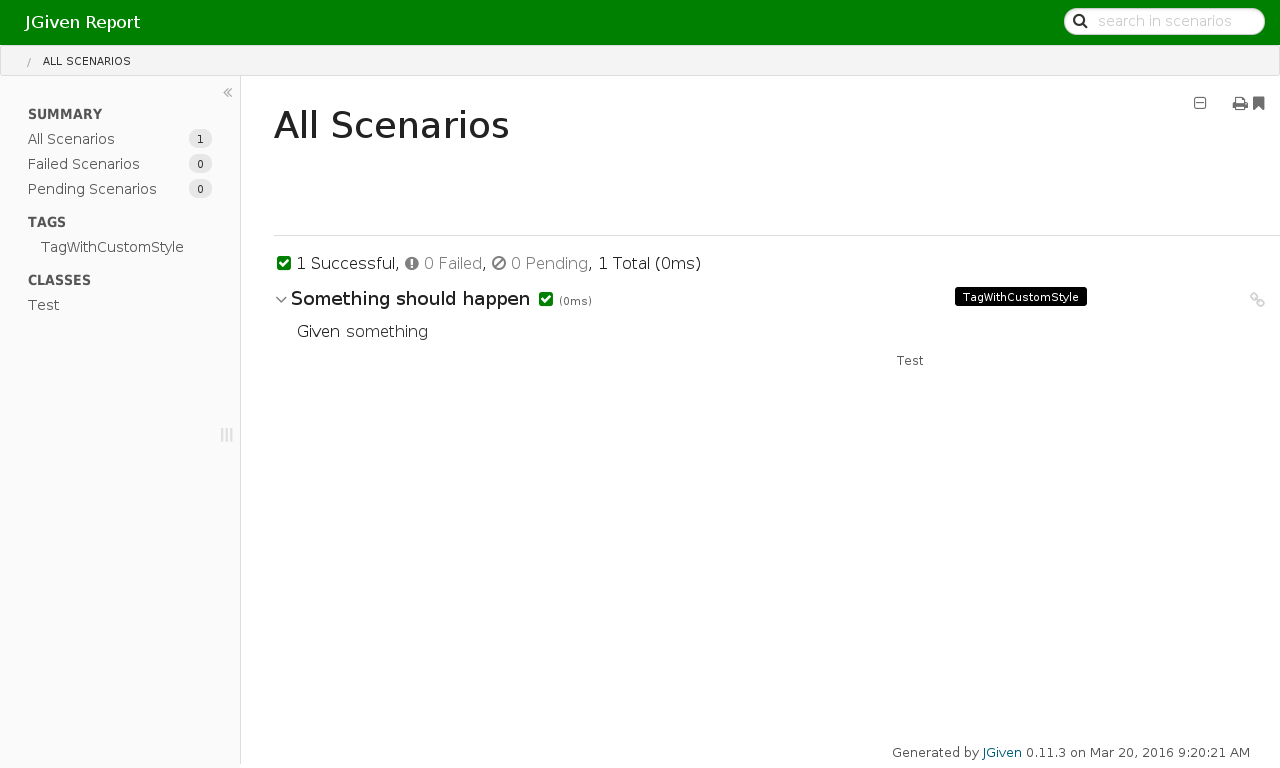
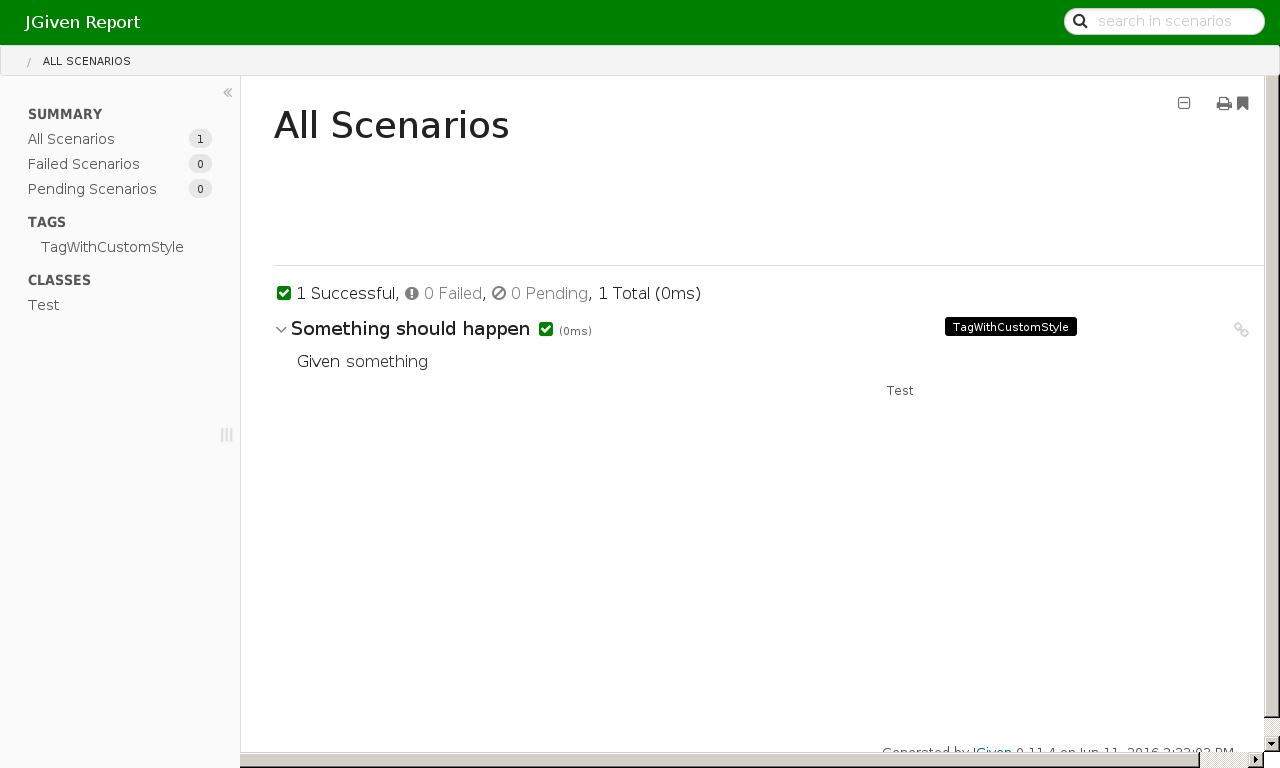
added generated jgiven report to gh-pages

diff --git a/jgiven-report/html5/data/data0.js b/jgiven-report/html5/data/data0.js
@@ -1,1 +1,1 @@
[2 lines of base64/hex data omitted]

diff --git a/jgiven-report/html5/index.html b/jgiven-report/html5/index.html
@@ -93,14 +93,14 @@
   </span>
   <span bindonce ng-repeat="scenarioCase in scenario.scenarioCases"
         ng-init="step = scenarioCase.steps[$parent.$index]">
-          <span ng-if="step.attachment && !step.attachment.showDirectly">
+          <span ng-if="step.attachment && !step.attachment.showDirectly && (scenario.casesAsTable || scenarioCase.caseNr === case.caseNr )">
             <span aria-haspopup="{{ step.attachment.title ? 'true' : 'false'"
                   class="{{ step.attachment.title ? 'has-tip' : '' }}"
                   tooltip-html-unsafe="{{ step.attachment.title }}"
                   tooltip-popup-delay="250">
               <a target="_blank" href="data/{{ step.attachment.value }}">
                 <i class="fa fa-paperclip"><span class="attachment-index"
-                                                 ng-if="scenario.scenarioCases.length > 1">{{ scenarioCase.caseNr }}</span></i>
+                                                 ng-if="scenario.scenarioCases.length > 1 && scenario.casesAsTable">{{ scenarioCase.caseNr }}</span></i>
               </a>
             </span>
           </span>
@@ -668,7 +668,7 @@
 
         <div class="footer-bottom" ng-if="!currentPage.embed">
           <div class="small-12 columns">
-            Generated by <a href="http://jgiven.org">JGiven</a> 0.11.3 on
+            Generated by <a href="http://jgiven.org">JGiven</a> 0.11.4 on
             {{metaData.created}}
           </div>
         </div>

diff --git a/jgiven-report/html5/data/metaData.js b/jgiven-report/html5/data/metaData.js
@@ -1,1 +1,1 @@
-jgivenReport.setMetaData({"created":"Mar 20, 2016 9:20:38 AM","title":"JGiven Report","data":["data0.js"]} );
+jgivenReport.setMetaData({"created":"Jun 11, 2016 2:33:11 PM","title":"JGiven Report","data":["data0.js"]} );
